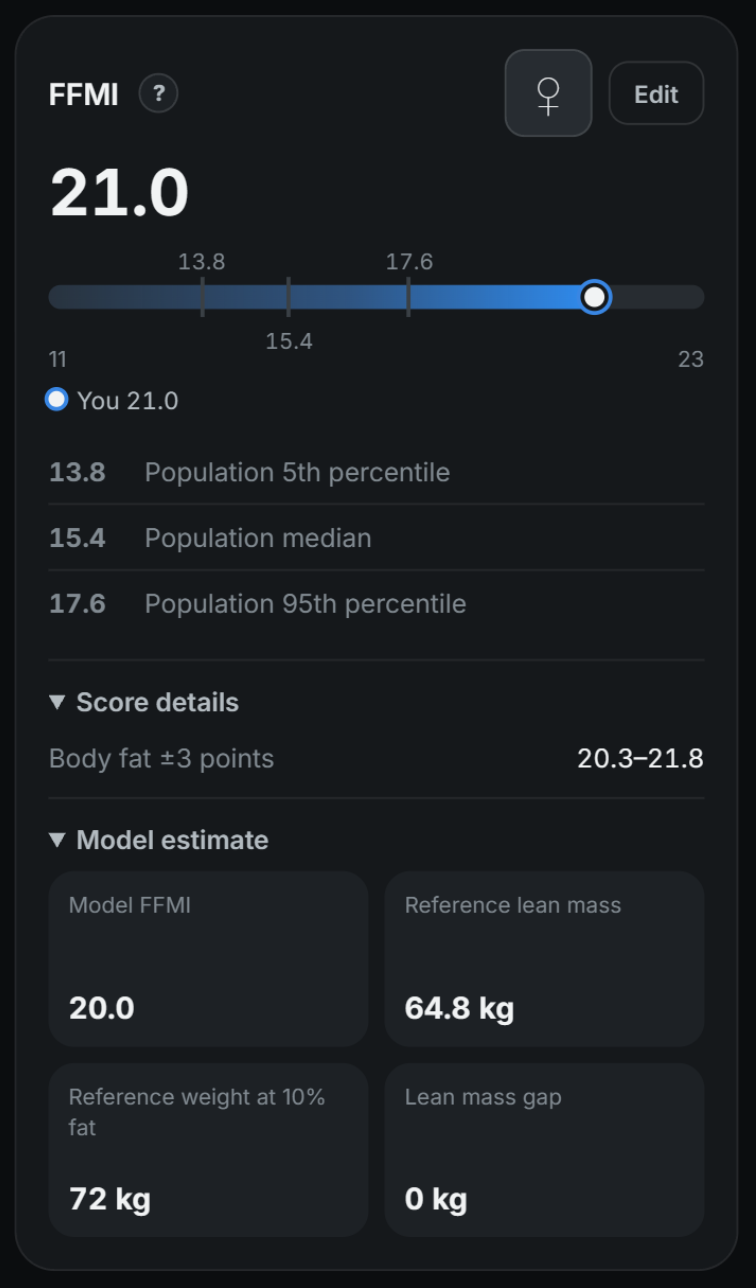
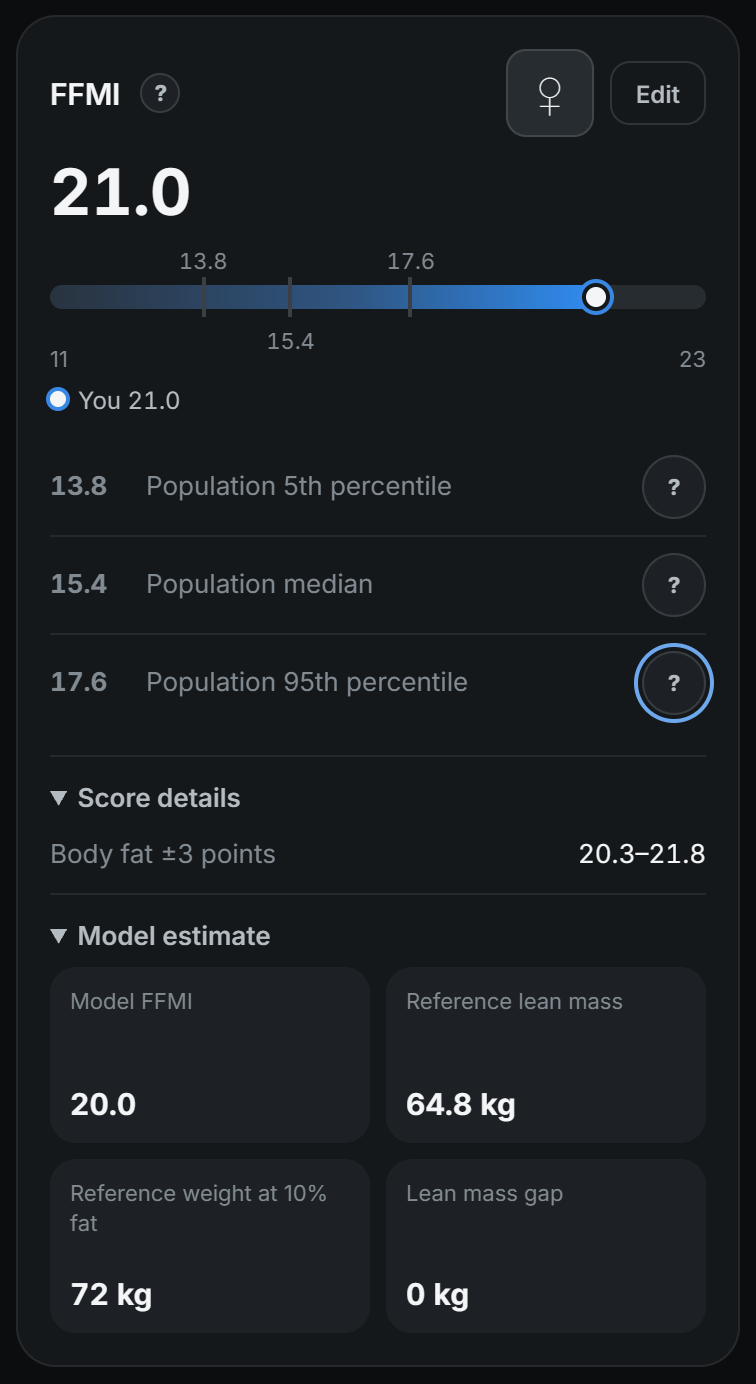
Explain FFMI population references beside each label

diff --git a/frontend/src/FfmiCard.test.tsx b/frontend/src/FfmiCard.test.tsx
@@ -76,6 +76,37 @@ afterEach(() => {
 });
 
 describe('FfmiCard', () => {
+  it.each([
+    ['male', 'Population 5th percentile', 'About 5%', '16.8', '95%'],
+    ['male', 'Population median', 'About half', '18.9', 'half'],
+    ['male', 'Population 95th percentile', 'About 95%', '21.1', '5%'],
+    ['female', 'Population 5th percentile', 'About 5%', '13.8', '95%'],
+    ['female', 'Population median', 'About half', '15.4', 'half'],
+    ['female', 'Population 95th percentile', 'About 95%', '17.6', '5%'],
+  ] as const)(
+    'explains %s %s using the selected reference values',
+    async (sex, label, portion, value, higher) => {
+      await render({ ...emptyProfile, sex, height_cm: 180 });
+      const trigger = host.querySelector<HTMLButtonElement>(
+        `[aria-label="About ${label.toLowerCase()}"]`,
+      )!;
+      expect(trigger).not.toBeNull();
+      await act(async () => trigger.click());
+      const dialog = document.querySelector('dialog')!;
+      expect(dialog.querySelector('h2')?.textContent).toBe(label);
+      expect(dialog.textContent).toContain(portion);
+      expect(dialog.textContent).toContain(`${sex} reference sample`);
+      expect(dialog.textContent).toContain(value);
+      expect(dialog.textContent).toContain(`${higher} had a higher value`);
+      expect(dialog.textContent).toContain('not a body-fat percentage');
+      expect(dialog.querySelector('a')).toBeNull();
+      await act(async () =>
+        dialog.dispatchEvent(new Event('cancel', { bubbles: true, cancelable: true })),
+      );
+      expect(document.querySelector('dialog')).toBeNull();
+    },
+  );
+
   it('saves model switches, recalculates the scale and retains frame measurements after reloading', async () => {
     let stored: FfmiProfile = {
       ...emptyProfile,

diff --git a/frontend/src/FfmiCard.tsx b/frontend/src/FfmiCard.tsx
@@ -1,6 +1,7 @@
 import { useEffect, useState, type CSSProperties } from 'react';
 import { api } from './api';
 import { FfmiHelp } from './FfmiHelp';
+import { HelpPopup } from './HelpPopup';
 import { PopupDialog } from './PopupDialog';
 import {
   DEFAULT_FFMI_PROFILE,
@@ -254,10 +255,22 @@ export function FfmiCard({
           </div>
           <FfmiScale ffmi={ffmi} sex={profile.sex!} />
           <ol className="ffmi-legend">
-            {ffmiComparisons(profile.sex!).map(({ value, label }) => (
+            {ffmiComparisons(profile.sex!).map(({ value, label, percentile }) => (
               <li key={value}>
                 <strong>{value.toFixed(1)}</strong>
                 <span>{label}</span>
+                <HelpPopup title={label}>
+                  <p>
+                    {percentile === 50
+                      ? `The median is the middle value. About half of the ${profile.sex} reference sample had an FFMI at or below ${value.toFixed(1)}, and half had a higher value.`
+                      : `About ${percentile}% of the ${profile.sex} reference sample had an FFMI at or below ${value.toFixed(1)}, and about ${100 - percentile}% had a higher value.`}
+                  </p>
+                  <p>
+                    These figures describe a study sample of Swiss adults aged 18–34. They are
+                    reference points, not training targets, health grades or genetic limits. A
+                    percentile is a position within that sample, not a body-fat percentage.
+                  </p>
+                </HelpPopup>
               </li>
             ))}
           </ol>

diff --git a/frontend/src/ffmi.css b/frontend/src/ffmi.css
@@ -188,7 +188,7 @@ button.ffmi-methodology-link {
 
 .ffmi-legend li {
   display: grid;
-  grid-template-columns: 2.5rem 1fr;
+  grid-template-columns: 2.5rem minmax(0, 1fr) auto;
   gap: 0.5rem;
   align-items: baseline;
   border-bottom: 1px solid var(--p-line);
@@ -203,6 +203,11 @@ button.ffmi-methodology-link {
 
 .ffmi-legend strong {
   font-variant-numeric: tabular-nums;
+}
+
+.ffmi-legend .auth-help-button {
+  width: 2rem;
+  height: 2rem;
 }
 
 .ffmi-details {

diff --git a/frontend/src/ffmi.ts b/frontend/src/ffmi.ts
@@ -11,6 +11,7 @@ export function ffmiComparisons(sex: Sex) {
   const values = sex === 'male' ? [16.8, 18.9, 21.1] : [13.8, 15.4, 17.6];
   return values.map((value, index) => ({
     value,
+    percentile: [5, 50, 95][index],
     label: ['Population 5th percentile', 'Population median', 'Population 95th percentile'][index],
   }));
 }

diff --git a/docs/RELEASE-NOTES.md b/docs/RELEASE-NOTES.md
@@ -60,6 +60,10 @@ _Select a body part to follow its own measurement history. Missing values are sk
 
 _The existing question-marks explain standard scoring, the reference sample, illustrative sensitivity and the optional frame model. Learn more and Back stay inside the app without external links._
 
+![Population median help explains the middle value and distinguishes percentile from body-fat percentage](screenshots/releases/1.1.0-ffmi-reference-help.png)
+
+_Each reference row has a question-mark with a short explanation using the selected sex and value. Keyboard, close/Escape and focus return use the existing help popup. Synthetic sample data._
+
 ![Standard FFMI with sex-specific population references and separate expandable score and frame details](screenshots/releases/1.1.0-ffmi.png)
 
 _The score uses conventional FFMI for either sex. The saved icon changes the reference population, with matched median and percentile points. Score details and the frame-based model stay separate. Synthetic sample data._
@@ -152,7 +156,7 @@ _The circular Start button matches its workout choices. Isolated sample data._
 
 - **Your splits, one page:** all saved splits and templates live together. The active split has a blue border and opens to its next seven days; centred week/calendar buttons switch the preview. Its calendar uses the shared Home component, one month at a time, limited to the current and next month. Saved template cycles are greyed out to prevent duplicates, including after a reload or rename. Changing their saved workout/rest days or deleting the copy makes the template available again. Sharing and deletion live in each saved split's options instead of the editor. Your profile has a **My splits** button beside **Last 12 weeks**, without repeating the saved list or a Save current split button. Other members' profiles retain their shared splits and private copying. Use split confirms a start date and updates the Active badge without a success popup; Edit split can change that date or pause the plan. Saving stays on the page with temporary popup feedback. Unlinked plans remain visible without automatic writes and link atomically on save. Private plans can be activated before adding exercises; publishing still requires exercises on every workout day. Audience checks and blocks protect sharing; copies survive unsharing or deletion. Up next prefills planned sets unchecked.
 - **Body measurements:** log dated circumferences for neck, shoulders, chest, waist, hips, left/right upper arms, thighs and calves, wrist and ankle. Filter history by body part for dated values and changes from the previous recorded measurement, edit or delete entries, and use cm or inches with your unit preference. No weigh-in is required; records stay private and are included in account backups.
-- FFMI now uses fat-free mass divided by height squared for both sexes. The saved sex icon selects matched population 5th, median and 95th percentile references, replacing the athlete and drug-use ranking. Reference data describe a young-adult Swiss sample, not worldwide or gym-goer norms. Score details offers a separate male height-adjusted figure and an illustrative body-fat sensitivity range. The optional Frame-based estimate is separate from the chart and does not predict a personal genetic limit. Existing check-ins and saved dimensions are retained; earlier adjusted scores may differ. Both question-marks explain the change and limitations inside the app without external links.
+- FFMI now uses fat-free mass divided by height squared for both sexes. The saved sex icon selects matched population 5th, median and 95th percentile references, replacing the athlete and drug-use ranking. A question-mark beside each reference explains it in plain language using the selected male or female value. Reference data describe a young-adult Swiss sample, not worldwide or gym-goer norms. Score details offers a separate male height-adjusted figure and an illustrative body-fat sensitivity range. The optional Frame-based estimate is separate from the chart and does not predict a personal genetic limit. Existing check-ins and saved dimensions are retained; earlier adjusted scores may differ. Both question-marks explain the change and limitations inside the app without external links.
 
 - Workout exercise headers show only the last-performed date, without the previous weights and reps beside it. **Equipment photo** no longer shows **Take or choose a photo** when no photos are saved, and its pinned-count pill has a grey background.
 - In Equipment photo, choose Select to pick multiple saved machines, review their cover, name and future settings, then merge them. All photos and workout links are kept together, including older drafts; settings recorded in existing workouts stay unchanged.
